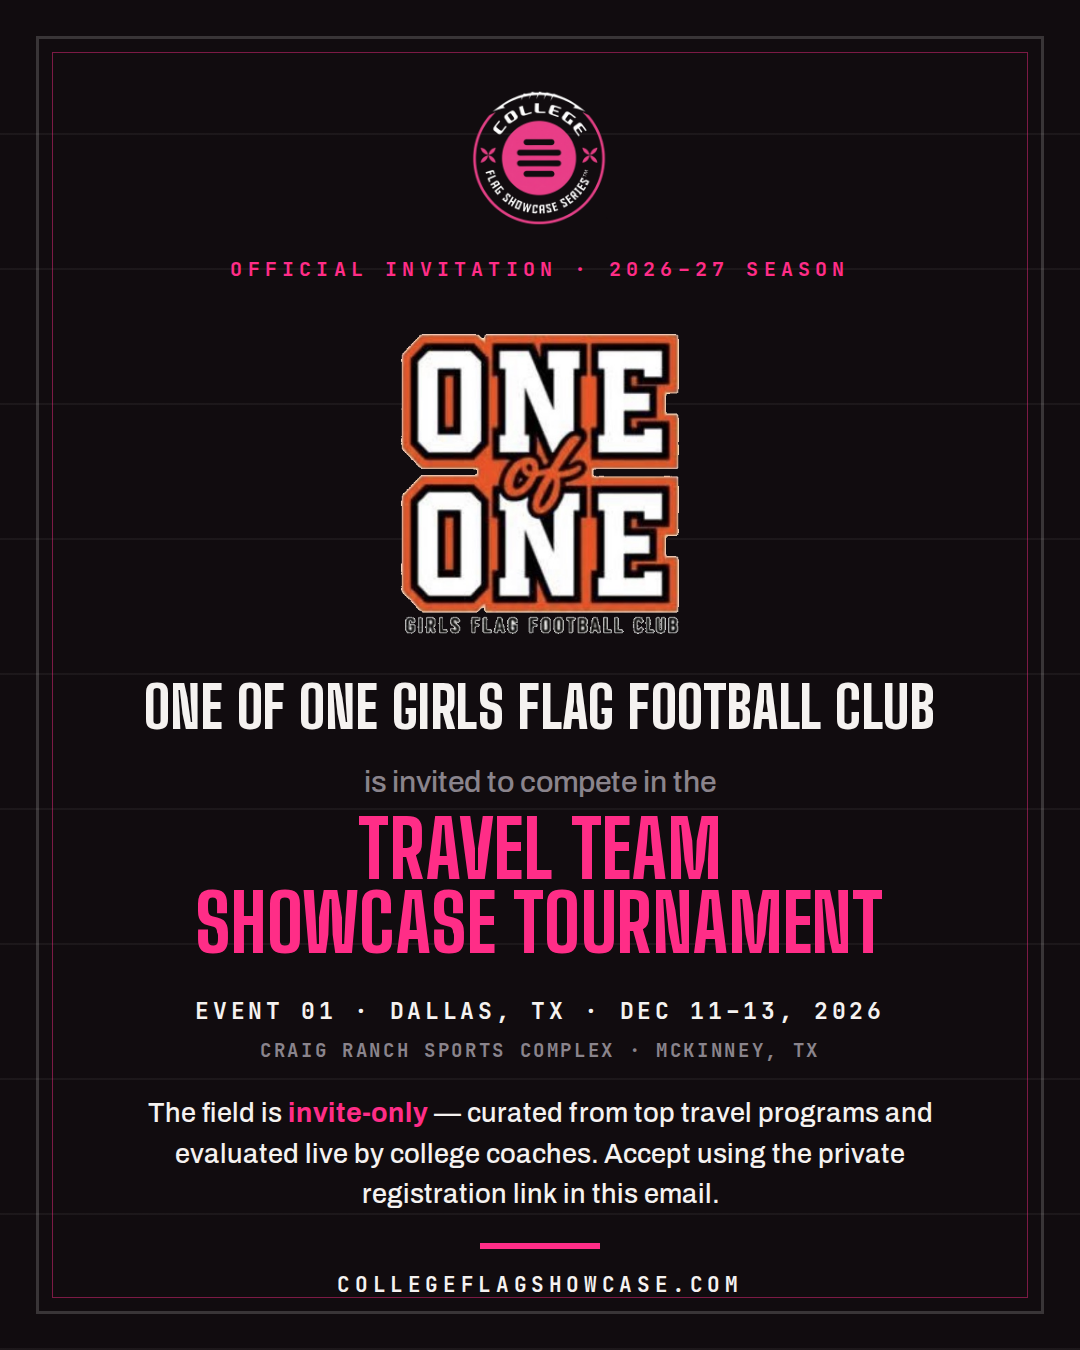
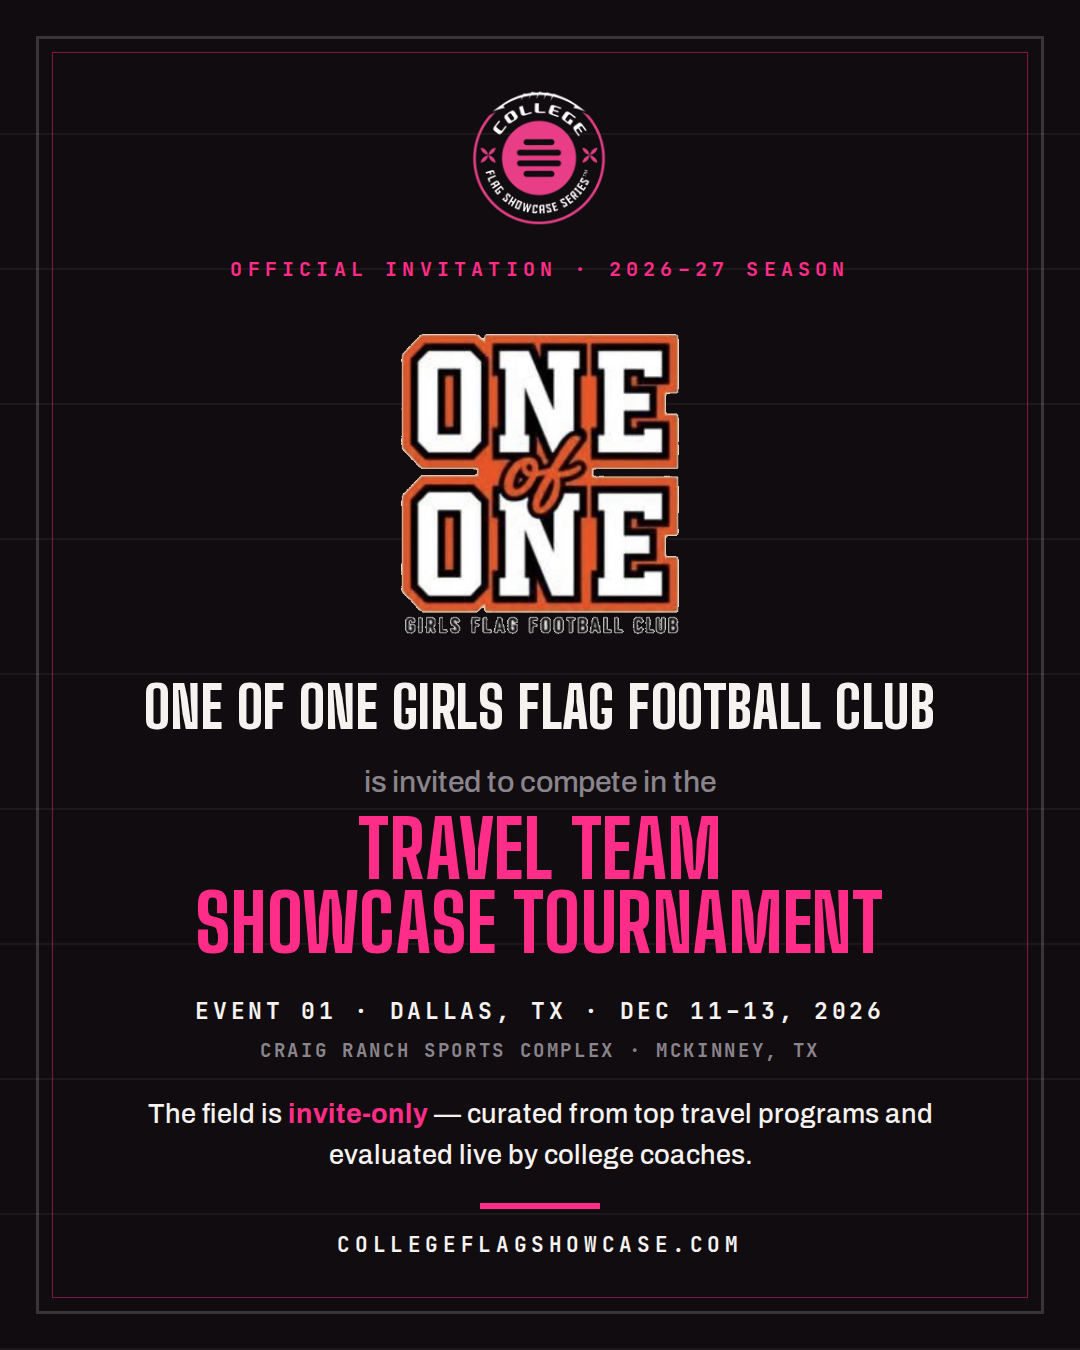
Invitation graphic is share-ready — no email-only language
Claude-Session: https://claude.ai/code/session_019V32boShoBmRrwWenCPJFc

Changed region(s): [[0.1528, 0.8089, 0.8556, 0.9644]]

diff --git a/collateral/invite-team-official.html b/collateral/invite-team-official.html
@@ -5,8 +5,9 @@
 <title>Template — Official Team Invitation</title>
 <!--
   TEMPLATE — official Showcase Tournament invitation graphic, one per team,
-  attached to the coach's invite email (alongside the private registration
-  link, which lives in the email body — never on this graphic).
+  attached to the coach's invite email — and built to be shared: invited
+  teams can post it straight to Instagram. Nothing on the graphic is
+  private; the registration link lives only in the email body.
 
   Render with:
     node collateral/render-team-invite.mjs "Program Name" public/programs/logo.png
@@ -71,7 +72,7 @@
     <h2 class="tourney">Travel Team<br />Showcase Tournament</h2>
     <p class="event-line">{{EVENT_LINE}}</p>
     <p class="venue-line">{{VENUE_LINE}}</p>
-    <p class="sub">The field is <b>invite-only</b> &mdash; curated from top travel programs and evaluated live by college coaches. Accept using the private registration link in this email.</p>
+    <p class="sub">The field is <b>invite-only</b> &mdash; curated from top travel programs and evaluated live by college coaches.</p>
     <div class="rule"></div>
     <p class="foot"><b>collegeflagshowcase.com</b></p>
   </div>
